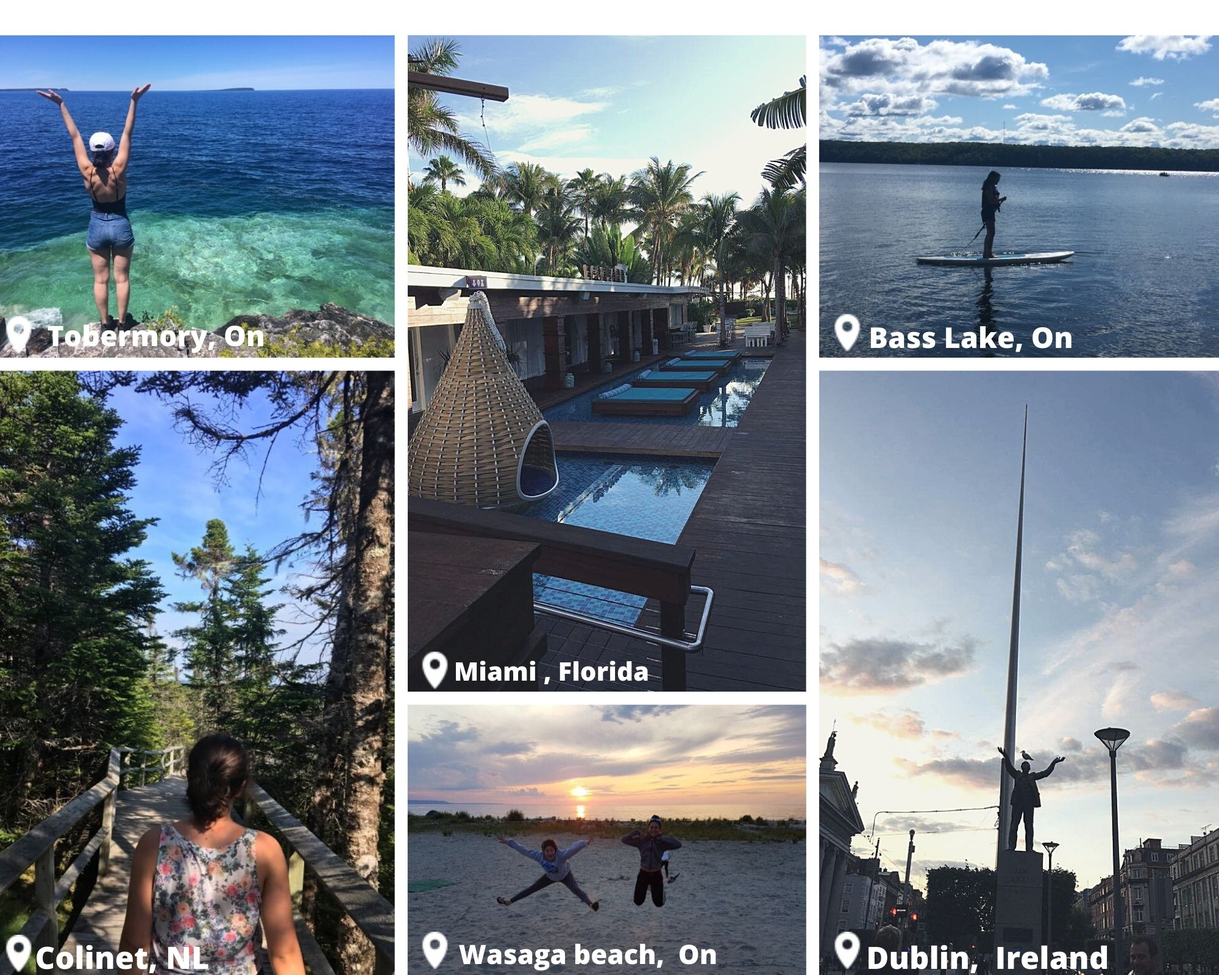
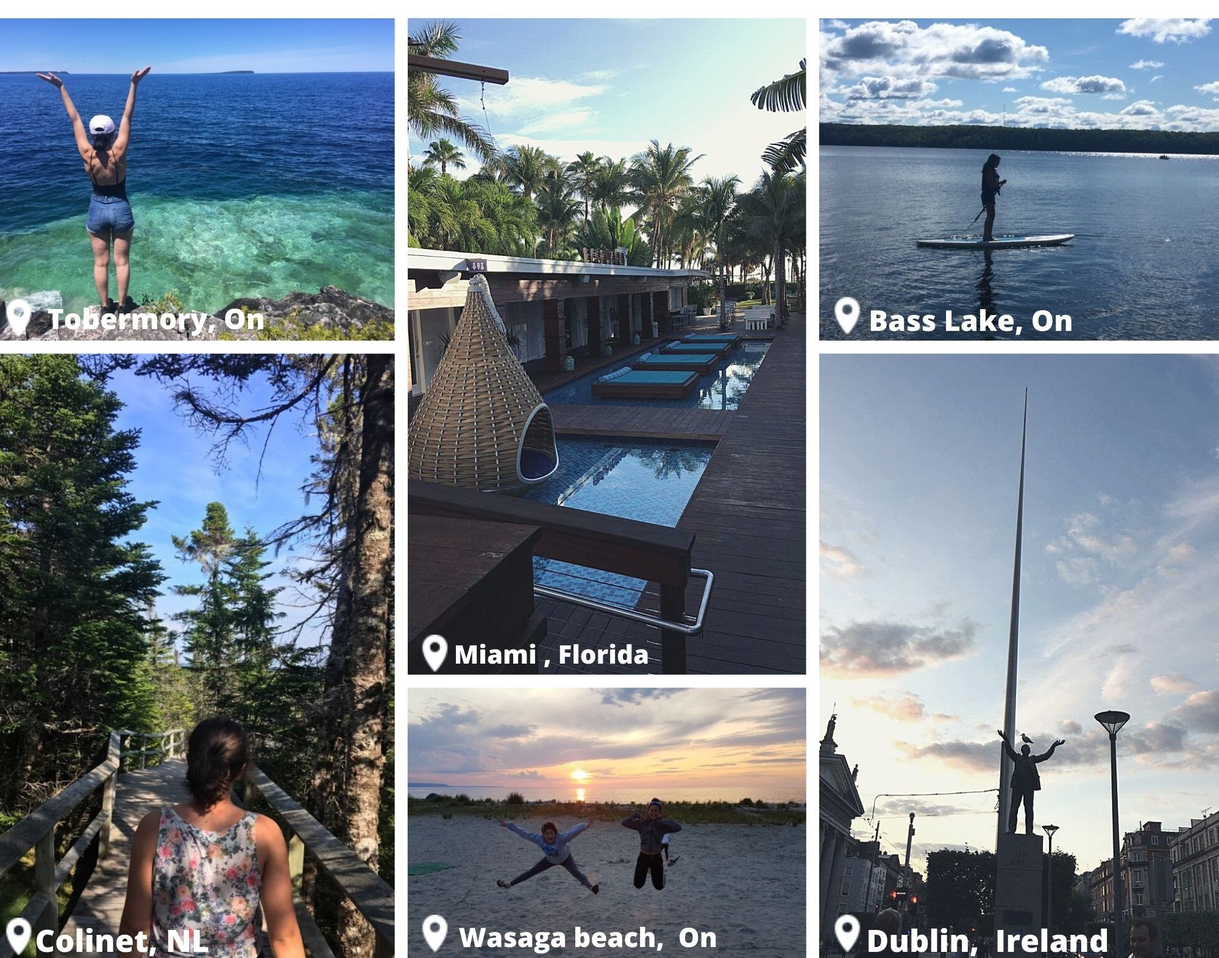
responsive images
updates all images and videos to make them responsive on all devices

diff --git a/index.html b/index.html
@@ -49,7 +49,7 @@
 
 							</p>
 							<footer>
-							<a class="icon fa-paper-plane" href="https://drive.google.com/file/d/1lJ60N_Kdw4nStlJMp3SleWYc1929NxFf/view" class="button">  RESUME  </a>
+							<a class="icon fa-paper-plane" href="https://drive.google.com/file/d/1lg5Ck1UI4PU8iQmbnoYR0fCrVXRB547D/view?usp=sharing" class="button">  RESUME  </a>
 							</footer>
 							</article>
 
@@ -95,19 +95,21 @@
 								<span class="icon fa-heart">
 								<b>TRAVEL</b>
 								<p>
-								<class= "image main" ><img src="images/pictures.jpg" alt="" height= "220" width= "280">
+								<class= "image main" ><img src="images/pictures.jpg" alt="" height= 100% width= 100%>
 								<p> I am always the happiest in the sun and I love to learn new cultures through travelling. I have been to Ireland, Newfoundland, Iran (thrice), Florida (twice), New York and Los Angeles and I hope that my list grows. Most of my pictures above are from my cottage and camping trips.</p>
 								
 								<span class="icon fa-heart">
 								<b>YOUTUBE</b>
 								<p>
-								<iframe width="503" height="315" src="https://www.youtube.com/embed/lTU0zLAdlm0" frameborder="0" allow="accelerometer; autoplay; encrypted-media; gyroscope; picture-in-picture" allowfullscreen></iframe>
+								<div class= "iframe-container">
+								<iframe width="560" height="315" src="https://www.youtube.com/embed/lTU0zLAdlm0" frameborder="0" allow="accelerometer; autoplay; encrypted-media; gyroscope; picture-in-picture" allowfullscreen></iframe>
+								</div>
 								<p>YouTube is a place where I can let out my creative juices to flow. I film and edit lifestyle videos and post them on Youtube. I started my channel while in Quarantine as a side project to help me stay sane while being isolated at home. Above is my first YouTube video where I share a glimpse of my life in quarantine and documented some of my favourite activities, recipes and workouts. I have multiple videos and over 3000 views.</p>
 								<span class="icon fa-heart">
 								
 								<b>SPORTS</b>
 								<p>
-								<video width="300" height="300" controls >
+								<video width=100% height=100% controls >
 								<source src="images/gym.mp4" type= "video/mp4">
 								</video>
 								<p> Gymnastics and swimming have both played a huge role in my life. I started to swim when I was three years old and then soon fell in love with gymnastics. In high school, I was one of the swim team captains on my school's varsity team and I was also a lifeguard/swim instructor at a public pool. I am grateful to have had the opportunity to mentor swimmers and share with them one of my biggest passions. I continue to swim during my spare time and I hope to be back in the gym to tumble. The video above is me doing my round off back hand spring in 2019. </p>

diff --git a/assets/css/main.css b/assets/css/main.css
@@ -1657,3 +1657,23 @@ input, select, textarea {
 		body.is-preload #footer {
 			opacity: 0;
 		}
+
+		img {
+			max-width: 100%;
+		}
+
+		body.iframe-container{
+  		position: relative;
+  		width: 100%;
+ 		padding-bottom: 56.25%; 
+  		height: 0;
+		}
+
+		body.iframe-container iframe{
+		position: absolute;
+  		top:0;
+  		left: 0;
+  		width: 100%;
+  		height: 100%;
+		}
+
